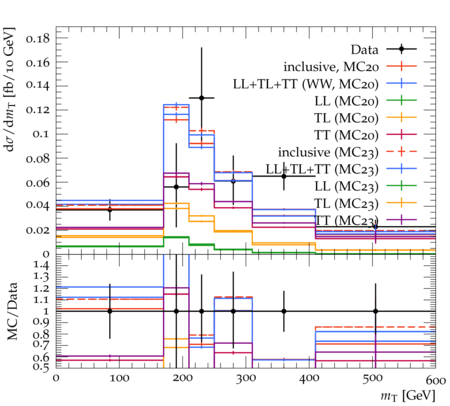
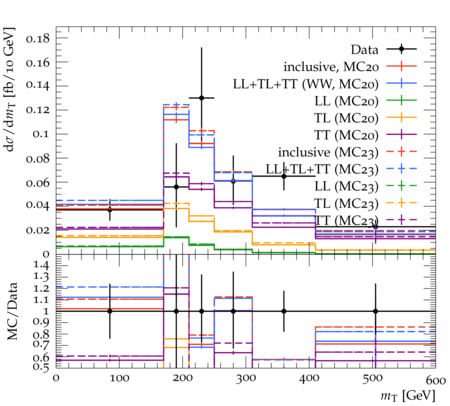
fix plots

diff --git a/ssWWjj_Pol/bk_plot_WW_13TeV_136TeV/index.html b/ssWWjj_Pol/bk_plot_WW_13TeV_136TeV/index.html
@@ -47,8 +47,8 @@
 <p><a href="https://inspirehep.net/literature/2729396">Inspire</a> &#124; <a href="http://hepdata.net/record/ins2729396">HepData</a> &#124; <a href="https://arxiv.org/abs/2312.00420">arXiv:2312.00420</a> &#124; <a href="https://atlas.web.cern.ch/Atlas/GROUPS/PHYSICS/PAPERS/STDM-2018-32">ATLAS-STDM-2018-32</a></p>
 <p class="indexanasumm">This paper presents the measurement of fiducial and differential cross sections for both the inclusive and electroweak production of a same-sign $W$-boson pair in association with two jets ($W^\pm W^\pm jj$) using $139$ fb$^{-1}$ of proton--proton collision data recorded at a centre-of-mass energy of $\sqrt{s}=13$ TeV by the ATLAS detector at the Large Hadron Collider. The analysis is performed by selecting two same-charge leptons, electron or muon, and at least two jets with large invariant mass and a large rapidity difference. The measured fiducial cross sections for electroweak and inclusive $W^\pm W^\pm jj$ production are $2.92 \pm 0.22\, \text{(stat.)} \pm 0.19\, \text{(syst.)}$ fb and $3.38 \pm 0.22\, \text{(stat.)} \pm 0.19\, \text{(syst.)}$ fb, respectively, in agreement with Standard Model predictions. The measurements are used to constrain anomalous quartic gauge couplings by extracting 95% confidence level intervals on dimension-8 operators. A search for doubly charged Higgs bosons $H^{\pm\pm}$ that are produced in vector-boson fusion processes and decay into a same-sign $W$ boson pair is performed. The largest deviation from the Standard Model occurs for an $H^{\pm\pm}$ mass near $450$ GeV, with a global significance of 2.5 standard deviations.</p>
 <footer>
-<p id="timestamp">Generated at Friday, 28. February 2025 04:39PM</p>
-<p id="command">Created with command: <pre>rivet-mkhtml --errs -o pp_13TeV_136TeV 13TeV.200003.yoda.gz:Title=inclusive, MC20:LineColor=red:LineStyle=solid 13TeV.200000m.yoda.gz:LL+TL+TT (pp, MC20):LineColor=blue:LineStyle=solid 13TeV.200000.yoda.gz:Title=LL (MC20):LineColor=green:LineStyle=solid 13TeV.200001.yoda.gz:Title=TL (MC20):LineColor=orange:LineStyle=solid 13TeV.200002.yoda.gz:Title=TT (MC20):LineColor=violet:LineStyle=solid 136TeV.200003.yoda.gz:Title=inclusive (MC23):LineColor=red:LineStyle=dashed 136TeV.200000m.yoda.gz:LL+TL+TT (MC23):LineColor=blue:LineStyle=dashed 136TeV.200000.yoda.gz:Title=LL (MC23):LineColor=green:LineStyle=dashed 136TeV.200001.yoda.gz:Title=TL (MC23):LineColor=orange:LineStyle=dashed 136TeV.200002.yoda.gz:Title=TT (MC23):LineColor=violet:LineStyle=dashed</pre></p>
+<p id="timestamp">Generated at Wednesday, 26. February 2025 09:33PM</p>
+<p id="command">Created with command: <pre>rivet-mkhtml --errs -o WW_13TeV_136TeV 13TeV.200003.yoda.gz:Title=inclusive, MC20:LineColor=red:LineStyle=solid 13TeV.100000m.yoda.gz:LL+TL+TT (WW, MC20):LineColor=blue:LineStyle=solid 13TeV.100000.yoda.gz:Title=LL (MC20):LineColor=green:LineStyle=solid 13TeV.100001.yoda.gz:Title=TL (MC20):LineColor=orange:LineStyle=solid 13TeV.100002.yoda.gz:Title=TT (MC20):LineColor=purple:LineStyle=solid 136TeV.200003.yoda.gz:Title=inclusive (MC23):LineColor=red:LineStyle=dashed 136TeV.100000m.yoda.gz:LL+TL+TT (MC23):LineColor=blue:LineStyle=solid 136TeV.100000.yoda.gz:Title=LL (MC23):LineColor=green:LineStyle=solid 136TeV.100001.yoda.gz:Title=TL (MC23):LineColor=orange:LineStyle=solid 136TeV.100002.yoda.gz:Title=TT (MC23):LineColor=violet:LineStyle=solid</pre></p>
 </footer>
 
 </body>

diff --git a/ssWWjj_Pol/bk_plot_pp_13TeV_136TeV/index.html b/ssWWjj_Pol/bk_plot_pp_13TeV_136TeV/index.html
@@ -47,8 +47,8 @@
 <p><a href="https://inspirehep.net/literature/2729396">Inspire</a> &#124; <a href="http://hepdata.net/record/ins2729396">HepData</a> &#124; <a href="https://arxiv.org/abs/2312.00420">arXiv:2312.00420</a> &#124; <a href="https://atlas.web.cern.ch/Atlas/GROUPS/PHYSICS/PAPERS/STDM-2018-32">ATLAS-STDM-2018-32</a></p>
 <p class="indexanasumm">This paper presents the measurement of fiducial and differential cross sections for both the inclusive and electroweak production of a same-sign $W$-boson pair in association with two jets ($W^\pm W^\pm jj$) using $139$ fb$^{-1}$ of proton--proton collision data recorded at a centre-of-mass energy of $\sqrt{s}=13$ TeV by the ATLAS detector at the Large Hadron Collider. The analysis is performed by selecting two same-charge leptons, electron or muon, and at least two jets with large invariant mass and a large rapidity difference. The measured fiducial cross sections for electroweak and inclusive $W^\pm W^\pm jj$ production are $2.92 \pm 0.22\, \text{(stat.)} \pm 0.19\, \text{(syst.)}$ fb and $3.38 \pm 0.22\, \text{(stat.)} \pm 0.19\, \text{(syst.)}$ fb, respectively, in agreement with Standard Model predictions. The measurements are used to constrain anomalous quartic gauge couplings by extracting 95% confidence level intervals on dimension-8 operators. A search for doubly charged Higgs bosons $H^{\pm\pm}$ that are produced in vector-boson fusion processes and decay into a same-sign $W$ boson pair is performed. The largest deviation from the Standard Model occurs for an $H^{\pm\pm}$ mass near $450$ GeV, with a global significance of 2.5 standard deviations.</p>
 <footer>
-<p id="timestamp">Generated at Friday, 28. February 2025 04:39PM</p>
-<p id="command">Created with command: <pre>rivet-mkhtml --errs -o pp_13TeV_136TeV 13TeV.200003.yoda.gz:Title=inclusive, MC20:LineColor=red:LineStyle=solid 13TeV.200000m.yoda.gz:LL+TL+TT (pp, MC20):LineColor=blue:LineStyle=solid 13TeV.200000.yoda.gz:Title=LL (MC20):LineColor=green:LineStyle=solid 13TeV.200001.yoda.gz:Title=TL (MC20):LineColor=orange:LineStyle=solid 13TeV.200002.yoda.gz:Title=TT (MC20):LineColor=violet:LineStyle=solid 136TeV.200003.yoda.gz:Title=inclusive (MC23):LineColor=red:LineStyle=dashed 136TeV.200000m.yoda.gz:LL+TL+TT (MC23):LineColor=blue:LineStyle=dashed 136TeV.200000.yoda.gz:Title=LL (MC23):LineColor=green:LineStyle=dashed 136TeV.200001.yoda.gz:Title=TL (MC23):LineColor=orange:LineStyle=dashed 136TeV.200002.yoda.gz:Title=TT (MC23):LineColor=violet:LineStyle=dashed</pre></p>
+<p id="timestamp">Generated at Wednesday, 26. February 2025 09:34PM</p>
+<p id="command">Created with command: <pre>rivet-mkhtml --errs -o pp_13TeV_136TeV 13TeV.200003.yoda.gz:Title=inclusive, MC20:LineColor=red:LineStyle=solid 13TeV.200000m.yoda.gz:LL+TL+TT (pp, MC20):LineColor=blue:LineStyle=solid 13TeV.200000.yoda.gz:Title=LL (MC20):LineColor=green:LineStyle=solid 13TeV.200001.yoda.gz:Title=TL (MC20):LineColor=orange:LineStyle=solid 13TeV.200002.yoda.gz:Title=TT (MC20):LineColor=purple:LineStyle=solid 136TeV.200003.yoda.gz:Title=inclusive (MC23):LineColor=red:LineStyle=dashed 136TeV.200000m.yoda.gz:LL+TL+TT (MC23):LineColor=blue:LineStyle=solid 136TeV.200000.yoda.gz:Title=LL (MC23):LineColor=green:LineStyle=solid 136TeV.200001.yoda.gz:Title=TL (MC23):LineColor=orange:LineStyle=solid 136TeV.200002.yoda.gz:Title=TT (MC23):LineColor=violet:LineStyle=solid</pre></p>
 </footer>
 
 </body>

diff --git a/ssWWjj_Pol/plot_WW_13TeV_136TeV/index.html b/ssWWjj_Pol/plot_WW_13TeV_136TeV/index.html
@@ -47,8 +47,8 @@
 <p><a href="https://inspirehep.net/literature/2729396">Inspire</a> &#124; <a href="http://hepdata.net/record/ins2729396">HepData</a> &#124; <a href="https://arxiv.org/abs/2312.00420">arXiv:2312.00420</a> &#124; <a href="https://atlas.web.cern.ch/Atlas/GROUPS/PHYSICS/PAPERS/STDM-2018-32">ATLAS-STDM-2018-32</a></p>
 <p class="indexanasumm">This paper presents the measurement of fiducial and differential cross sections for both the inclusive and electroweak production of a same-sign $W$-boson pair in association with two jets ($W^\pm W^\pm jj$) using $139$ fb$^{-1}$ of proton--proton collision data recorded at a centre-of-mass energy of $\sqrt{s}=13$ TeV by the ATLAS detector at the Large Hadron Collider. The analysis is performed by selecting two same-charge leptons, electron or muon, and at least two jets with large invariant mass and a large rapidity difference. The measured fiducial cross sections for electroweak and inclusive $W^\pm W^\pm jj$ production are $2.92 \pm 0.22\, \text{(stat.)} \pm 0.19\, \text{(syst.)}$ fb and $3.38 \pm 0.22\, \text{(stat.)} \pm 0.19\, \text{(syst.)}$ fb, respectively, in agreement with Standard Model predictions. The measurements are used to constrain anomalous quartic gauge couplings by extracting 95% confidence level intervals on dimension-8 operators. A search for doubly charged Higgs bosons $H^{\pm\pm}$ that are produced in vector-boson fusion processes and decay into a same-sign $W$ boson pair is performed. The largest deviation from the Standard Model occurs for an $H^{\pm\pm}$ mass near $450$ GeV, with a global significance of 2.5 standard deviations.</p>
 <footer>
-<p id="timestamp">Generated at Wednesday, 26. February 2025 09:33PM</p>
-<p id="command">Created with command: <pre>rivet-mkhtml --errs -o WW_13TeV_136TeV 13TeV.200003.yoda.gz:Title=inclusive, MC20:LineColor=red:LineStyle=solid 13TeV.100000m.yoda.gz:LL+TL+TT (WW, MC20):LineColor=blue:LineStyle=solid 13TeV.100000.yoda.gz:Title=LL (MC20):LineColor=green:LineStyle=solid 13TeV.100001.yoda.gz:Title=TL (MC20):LineColor=orange:LineStyle=solid 13TeV.100002.yoda.gz:Title=TT (MC20):LineColor=purple:LineStyle=solid 136TeV.200003.yoda.gz:Title=inclusive (MC23):LineColor=red:LineStyle=dashed 136TeV.100000m.yoda.gz:LL+TL+TT (MC23):LineColor=blue:LineStyle=solid 136TeV.100000.yoda.gz:Title=LL (MC23):LineColor=green:LineStyle=solid 136TeV.100001.yoda.gz:Title=TL (MC23):LineColor=orange:LineStyle=solid 136TeV.100002.yoda.gz:Title=TT (MC23):LineColor=violet:LineStyle=solid</pre></p>
+<p id="timestamp">Generated at Friday, 28. February 2025 04:39PM</p>
+<p id="command">Created with command: <pre>rivet-mkhtml --errs -o WW_13TeV_136TeV 13TeV.200003.yoda.gz:Title=inclusive, MC20:LineColor=red:LineStyle=solid 13TeV.100000m.yoda.gz:LL+TL+TT (WW, MC20):LineColor=blue:LineStyle=solid 13TeV.100000.yoda.gz:Title=LL (MC20):LineColor=green:LineStyle=solid 13TeV.100001.yoda.gz:Title=TL (MC20):LineColor=orange:LineStyle=solid 13TeV.100002.yoda.gz:Title=TT (MC20):LineColor=violet:LineStyle=solid 136TeV.200003.yoda.gz:Title=inclusive (MC23):LineColor=red:LineStyle=dashed 136TeV.100000m.yoda.gz:LL+TL+TT (MC23):LineColor=blue:LineStyle=dashed 136TeV.100000.yoda.gz:Title=LL (MC23):LineColor=green:LineStyle=dashed 136TeV.100001.yoda.gz:Title=TL (MC23):LineColor=orange:LineStyle=dashed 136TeV.100002.yoda.gz:Title=TT (MC23):LineColor=violet:LineStyle=dashed</pre></p>
 </footer>
 
 </body>

diff --git a/ssWWjj_Pol/bk_plot_WW_13TeV_136TeV/ATLAS_2023_I2729396/index.html b/ssWWjj_Pol/bk_plot_WW_13TeV_136TeV/ATLAS_2023_I2729396/index.html
@@ -85,7 +85,7 @@
 </section>
 
 <footer>
-<p id="timestamp">Generated at Friday, 28. February 2025 04:39PM</p>
+<p id="timestamp">Generated at Wednesday, 26. February 2025 09:33PM</p>
 </footer>
 
 </body>

diff --git a/ssWWjj_Pol/bk_plot_pp_13TeV_136TeV/ATLAS_2023_I2729396/index.html b/ssWWjj_Pol/bk_plot_pp_13TeV_136TeV/ATLAS_2023_I2729396/index.html
@@ -85,7 +85,7 @@
 </section>
 
 <footer>
-<p id="timestamp">Generated at Friday, 28. February 2025 04:39PM</p>
+<p id="timestamp">Generated at Wednesday, 26. February 2025 09:34PM</p>
 </footer>
 
 </body>

diff --git a/ssWWjj_Pol/plot_pp_13TeV_136TeV/ATLAS_2023_I2729396/index.html b/ssWWjj_Pol/plot_pp_13TeV_136TeV/ATLAS_2023_I2729396/index.html
@@ -85,7 +85,7 @@
 </section>
 
 <footer>
-<p id="timestamp">Generated at Wednesday, 26. February 2025 09:34PM</p>
+<p id="timestamp">Generated at Friday, 28. February 2025 04:39PM</p>
 </footer>
 
 </body>
